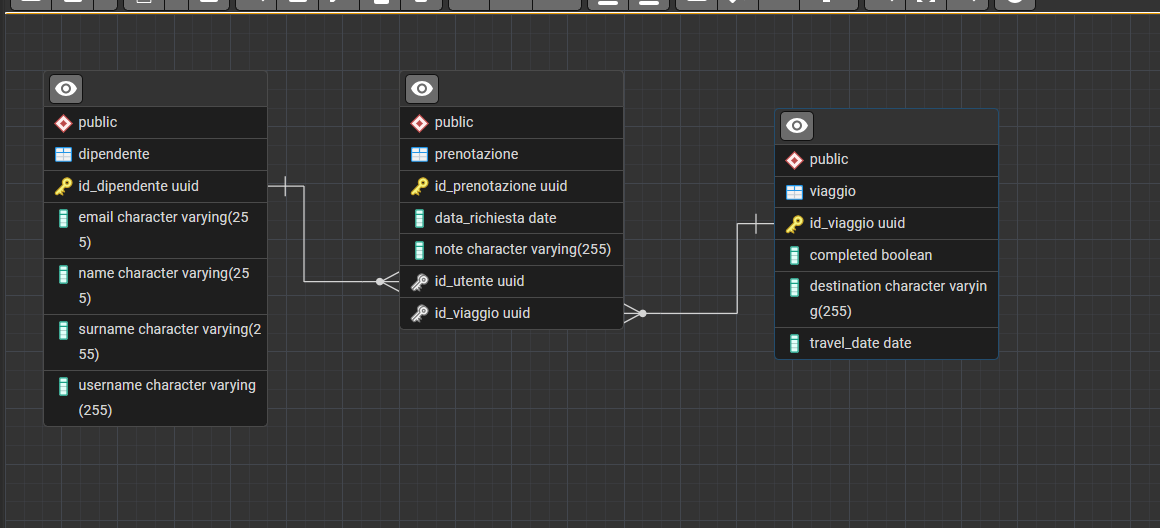
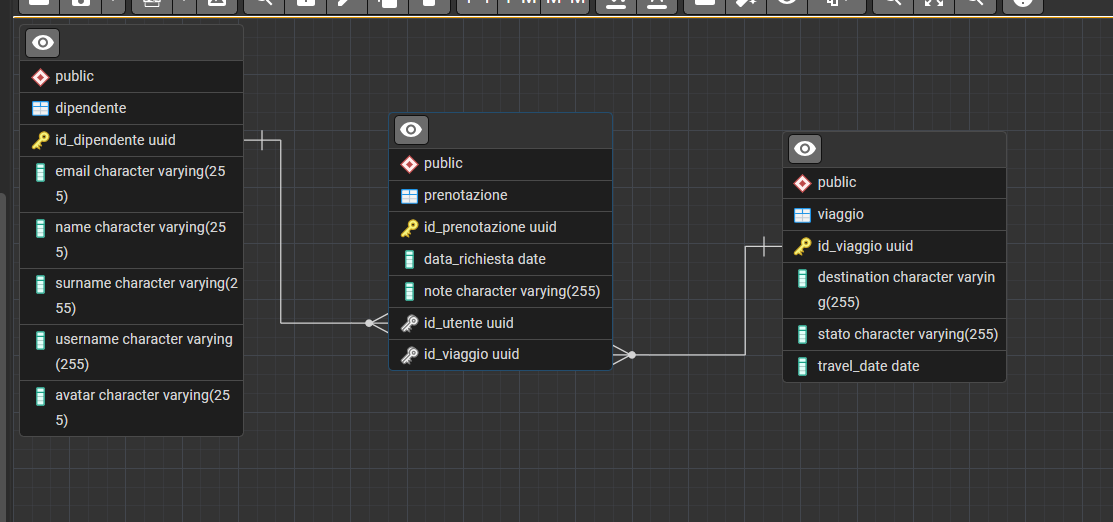
add_file

diff --git a/src/main/java/gentjanahani/progettou2w6d5/controllers/DipendenteController.java b/src/main/java/gentjanahani/progettou2w6d5/controllers/DipendenteController.java
@@ -1,0 +1,43 @@
+package gentjanahani.progettou2w6d5.controllers;
+
+import gentjanahani.progettou2w6d5.entities.Dipendente;
+import gentjanahani.progettou2w6d5.entities.Viaggio;
+import gentjanahani.progettou2w6d5.exceptions.ValidationException;
+import gentjanahani.progettou2w6d5.payloads.DipendenteDTO;
+import gentjanahani.progettou2w6d5.payloads.ViaggioDTO;
+import gentjanahani.progettou2w6d5.services.DipendenteService;
+import org.springframework.beans.factory.annotation.Autowired;
+import org.springframework.http.HttpStatus;
+import org.springframework.validation.BindingResult;
+import org.springframework.validation.annotation.Validated;
+import org.springframework.web.bind.annotation.*;
+
+import java.util.List;
+
+@RestController
+@RequestMapping("/dipendenti")
+public class DipendenteController {
+
+    private final DipendenteService dipendenteService;
+
+    @Autowired
+    public DipendenteController(DipendenteService dipendenteService) {
+        this.dipendenteService = dipendenteService;
+    }
+
+    // 1. POST http://localhost:3025/dipendenti (+ Payload)
+    @PostMapping
+    @ResponseStatus(HttpStatus.CREATED)
+    public Dipendente createViaggio(@RequestBody @Validated DipendenteDTO payload, BindingResult validationResult) {
+        if (validationResult.hasErrors()) {
+            List<String> errorsList = validationResult.getFieldErrors()
+                    .stream()
+                    .map(fieldError -> fieldError.getDefaultMessage())
+                    .toList();
+
+            throw new ValidationException(errorsList);
+        } else {
+            return this.dipendenteService.save(payload);
+        }
+    }
+}

diff --git a/src/main/java/gentjanahani/progettou2w6d5/services/ViaggioService.java b/src/main/java/gentjanahani/progettou2w6d5/services/ViaggioService.java
@@ -22,24 +22,24 @@ public class ViaggioService {
         this.viaggioRepository = viaggioRepository;
     }
 
-    public Viaggio save(ViaggioDTO payload){
+    public Viaggio save(ViaggioDTO payload) {
 
-        Viaggio newViaggio=new Viaggio(payload.destination(), payload.travelDate());
-        Viaggio savedViaggio=this.viaggioRepository.save(newViaggio);
+        Viaggio newViaggio = new Viaggio(payload.destination(), payload.travelDate());
+        Viaggio savedViaggio = this.viaggioRepository.save(newViaggio);
         log.info("IL viaggio è stato salvato correttamente con id {}", savedViaggio.getIdViaggio());
         return savedViaggio;
     }
 
-    public Viaggio findViaggioById(UUID idViaggio){
-        Viaggio viaggio=viaggioRepository.findByIdViaggio(idViaggio);
-        if(viaggio == null) throw new NotFoundException(idViaggio);
+    public Viaggio findViaggioById(UUID idViaggio) {
+        Viaggio viaggio = viaggioRepository.findByIdViaggio(idViaggio);
+        if (viaggio == null) throw new NotFoundException(idViaggio);
         return viaggio;
     }
 
     public Viaggio findAndUpdateStato(UUID idViaggio, ViaggioStatusDTO payload) {
-        Viaggio viaggio=viaggioRepository.findByIdViaggio(idViaggio);
-        if(viaggio == null) throw new NotFoundException(idViaggio);
-        viaggio.setCompleted(payload.completed());
+        Viaggio viaggio = viaggioRepository.findByIdViaggio(idViaggio);
+        if (viaggio == null) throw new NotFoundException(idViaggio);
+        viaggio.setStato(payload.stato());
         return viaggioRepository.save(viaggio);
     }
 }

diff --git a/src/main/java/gentjanahani/progettou2w6d5/services/DipendenteService.java b/src/main/java/gentjanahani/progettou2w6d5/services/DipendenteService.java
@@ -1,6 +1,7 @@
 package gentjanahani.progettou2w6d5.services;
 
 import gentjanahani.progettou2w6d5.entities.Dipendente;
+import gentjanahani.progettou2w6d5.exceptions.BadRequestException;
 import gentjanahani.progettou2w6d5.payloads.DipendenteDTO;
 import gentjanahani.progettou2w6d5.repository.DipendenteRepository;
 import lombok.extern.slf4j.Slf4j;
@@ -18,7 +19,22 @@ public class DipendenteService {
         this.dipendenteRepository = dipendenteRepository;
     }
 
-    public Dipendente(DipendenteDTO payload) {
-        
+    public Dipendente save(DipendenteDTO payload) {
+
+        this.dipendenteRepository.findByEmail(payload.mail()).ifPresent(dipentente -> {
+            throw new BadRequestException("L'email " + dipentente.getEmail() + "  è già in uso!");
+        });
+
+        this.dipendenteRepository.findByUsername(payload.username()).ifPresent(dipentente -> {
+            throw new BadRequestException("Lo username" + dipentente.getUsername() + "  è già in uso!");
+        });
+
+        Dipendente newDipendente = new Dipendente(payload.username(), payload.name(), payload.surname(), payload.mail());
+        newDipendente.setAvatar("https://ui-avatars.com/api?name=" + payload.surname());
+
+        Dipendente savedDip = this.dipendenteRepository.save(newDipendente);
+        log.info("Il dipendente con id {} è stato salvato correttamente.", payload.surname());
+
+        return savedDip;
     }
 }

diff --git a/src/main/java/gentjanahani/progettou2w6d5/entities/Prenotazione.java b/src/main/java/gentjanahani/progettou2w6d5/entities/Prenotazione.java
@@ -2,13 +2,18 @@ package gentjanahani.progettou2w6d5.entities;
 
 import jakarta.persistence.*;
 import lombok.AccessLevel;
+import lombok.Getter;
+import lombok.NoArgsConstructor;
 import lombok.Setter;
 
 import java.time.LocalDate;
 import java.util.UUID;
 
 @Entity
-@Table(name="prenotazione")
+@Table(name = "prenotazione")
+@Getter
+@Setter
+@NoArgsConstructor
 public class Prenotazione {
     @Id
     @GeneratedValue
@@ -19,11 +24,18 @@ public class Prenotazione {
 
     //relazione ManyToOne con viaggio
     @ManyToOne
-    @JoinColumn(name="idViaggio")
+    @JoinColumn(name = "idViaggio")
     private Viaggio viaggio;
 
     //relazione ManyToOne con dipendente
     @ManyToOne
-    @JoinColumn(name="idUtente")
+    @JoinColumn(name = "idUtente")
     private Dipendente dipendente;
+
+    public Prenotazione(LocalDate dataRichiesta, String note, Viaggio viaggio, Dipendente dipendente) {
+        this.dataRichiesta = dataRichiesta;
+        this.note = note;
+        this.viaggio = viaggio;
+        this.dipendente = dipendente;
+    }
 }

diff --git a/src/main/java/gentjanahani/progettou2w6d5/payloads/PrenotazioneDTO.java b/src/main/java/gentjanahani/progettou2w6d5/payloads/PrenotazioneDTO.java
@@ -1,0 +1,27 @@
+package gentjanahani.progettou2w6d5.payloads;
+
+import com.fasterxml.jackson.annotation.JsonFormat;
+import jakarta.validation.constraints.FutureOrPresent;
+import jakarta.validation.constraints.NotBlank;
+import jakarta.validation.constraints.NotNull;
+import jakarta.validation.constraints.Size;
+
+import java.time.LocalDate;
+import java.util.UUID;
+
+public record PrenotazioneDTO(
+        @NotNull
+        @JsonFormat(pattern = "yyyy-MM-dd")
+        @FutureOrPresent(message = "La data del viaggio deve essere nel futuro")
+        LocalDate dataRichiesta,
+        @NotBlank(message = "Le note sono un campo obbligatorio")
+        @Size(min = 2, max = 30, message = "Il campo note può contenere tra i 2 e i 100 caratteri")
+        String note,
+        @NotNull(message = "l'id del viaggio è obbligatorio")
+        UUID idViaggio,
+        @NotNull(message = "l'id del dipendente è obbligatorio")
+        UUID idDipendente
+
+
+) {
+}

diff --git a/src/main/java/gentjanahani/progettou2w6d5/entities/Viaggio.java b/src/main/java/gentjanahani/progettou2w6d5/entities/Viaggio.java
@@ -10,22 +10,25 @@ import java.time.LocalDate;
 import java.util.UUID;
 
 @Entity
-@Table(name="viaggio")
+@Table(name = "viaggio")
 @Getter
 @Setter
 @ToString
 @NoArgsConstructor
 public class Viaggio {
-    @Id@GeneratedValue
+    @Id
+    @GeneratedValue
     @Setter(AccessLevel.NONE)
     private UUID idViaggio;
     private String destination;
     private LocalDate travelDate;
-    private boolean completed;
+    private String stato;
+
 
     public Viaggio(String destination, LocalDate travelDate) {
         this.destination = destination;
         this.travelDate = travelDate;
-        this.completed =false;
+        this.stato = "In programma";
+
     }
 }

diff --git a/src/main/java/gentjanahani/progettou2w6d5/services/PrenotazioneService.java b/src/main/java/gentjanahani/progettou2w6d5/services/PrenotazioneService.java
@@ -1,5 +1,7 @@
 package gentjanahani.progettou2w6d5.services;
 
+import gentjanahani.progettou2w6d5.entities.Prenotazione;
+import gentjanahani.progettou2w6d5.payloads.PrenotazioneDTO;
 import gentjanahani.progettou2w6d5.repository.PrenotazioneRepository;
 import lombok.extern.slf4j.Slf4j;
 import org.springframework.beans.factory.annotation.Autowired;
@@ -16,5 +18,8 @@ public class PrenotazioneService {
         this.prenotazioneRepository = prenotazioneRepository;
     }
 
+    public Prenotazione save(PrenotazioneDTO payload) {
+        
+    }
 
 }

diff --git a/src/main/java/gentjanahani/progettou2w6d5/payloads/ViaggioStatusDTO.java b/src/main/java/gentjanahani/progettou2w6d5/payloads/ViaggioStatusDTO.java
@@ -1,8 +1,11 @@
 package gentjanahani.progettou2w6d5.payloads;
 
+import jakarta.validation.constraints.NotBlank;
 import jakarta.validation.constraints.NotNull;
+import jakarta.validation.constraints.Size;
 
 public record ViaggioStatusDTO(
-        @NotNull
-        boolean completed) {
+        @NotBlank(message = "Lo stato è obbligatorio")
+        @Size(min = 2, max = 15, message = "Lo stato deve contenere un mindi 2 caratteri e un max di 15")
+        String stato) {
 }

diff --git a/src/main/java/gentjanahani/progettou2w6d5/entities/Dipendente.java b/src/main/java/gentjanahani/progettou2w6d5/entities/Dipendente.java
@@ -12,7 +12,7 @@ import lombok.Setter;
 import java.util.UUID;
 
 @Entity
-@Table(name="dipendente")
+@Table(name = "dipendente")
 @Getter
 @Setter
 @NoArgsConstructor
@@ -25,6 +25,7 @@ public class Dipendente {
     private String name;
     private String surname;
     private String email;
+    private String avatar;
 
     public Dipendente(String username, String name, String surname, String email) {
         this.username = username;
